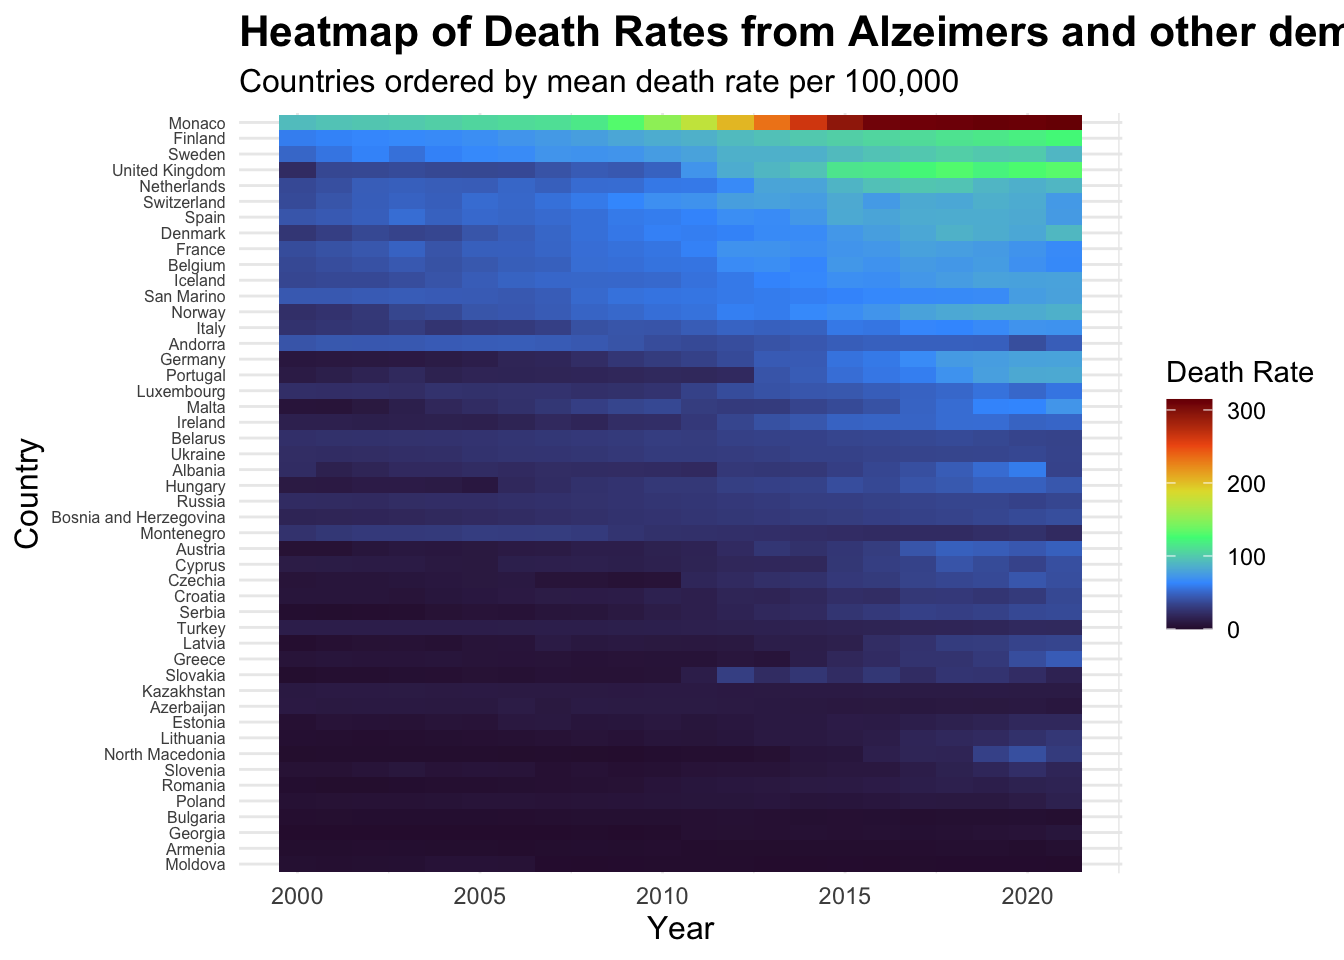
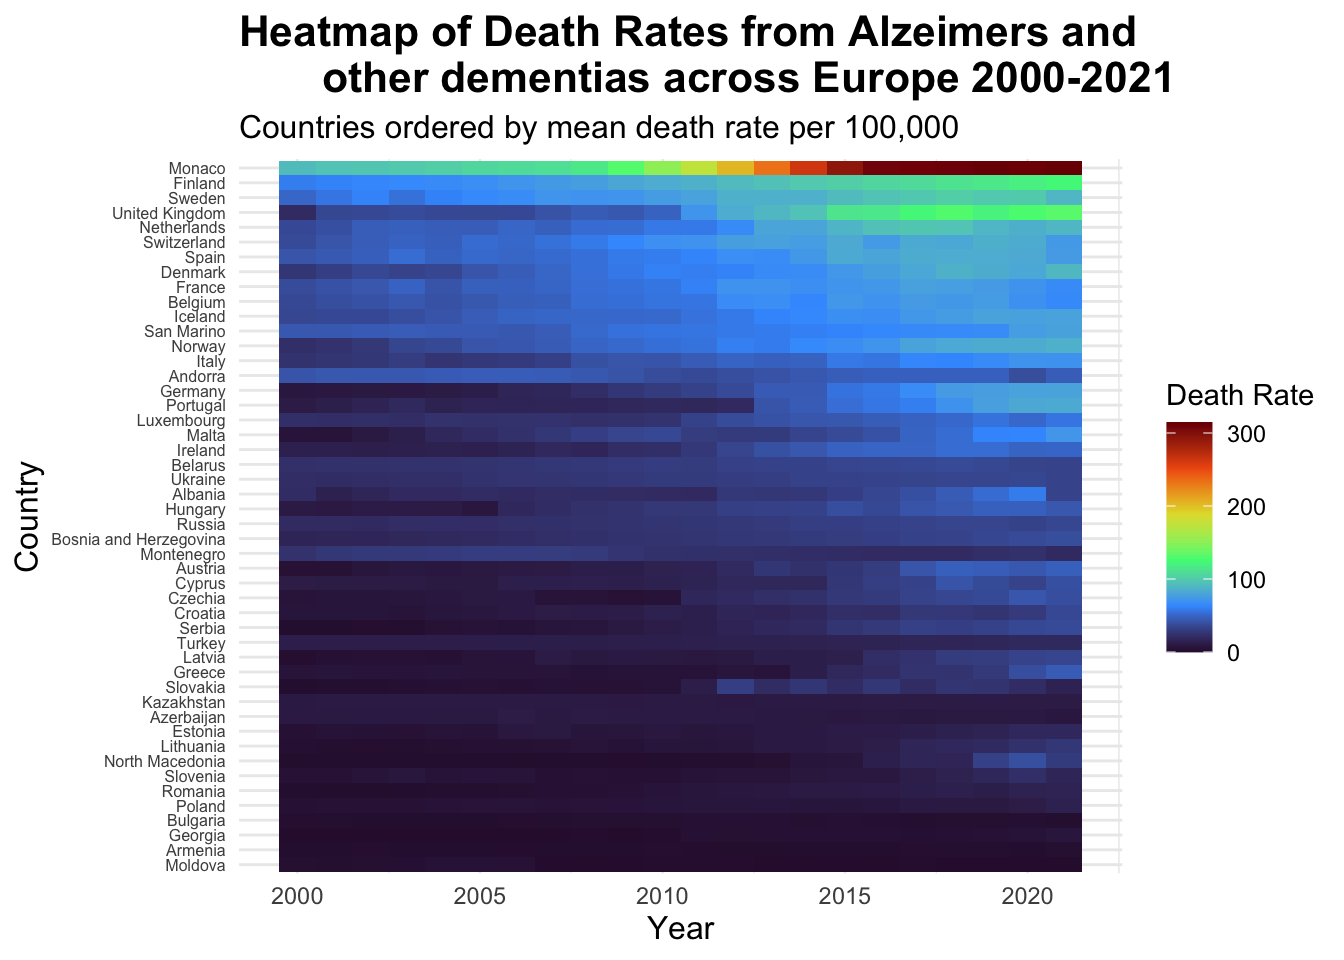
small changes commit

Changed region(s): [[0.0, 0.0, 1.0, 0.9062], [0.5625, 0.5625, 0.5938, 0.5938]]

diff --git a/FinalProject.html b/FinalProject.html
@@ -108,7 +108,7 @@ pre > code.sourceCode > span > a:first-child::before { text-decoration: underlin
 </section>
 <section id="background-and-data-origins" class="level2">
 <h2 class="anchored" data-anchor-id="background-and-data-origins">Background and Data Origins</h2>
-<p>As a postgraduate Masters student studying cognitive neuroscience and human neuroimaging I am interested in the impact of neurodegenerative diseases on health and populations. This inspired me to create a visualisation looking at how deaths from alzheimer’s disease and other forms of dementia are increasing or decreasing and how this specifically is impacting health and therefore death rates. The raw data set was obtained from Our World Data website which provided the annual number of deaths from Alzheimer’s disease and other forms of dementia per 100,000 people from 2000 to 2021 globally, combining men and women.</p>
+<p>As a postgraduate Masters student studying cognitive neuroscience and human neuroimaging I am interested in the impact of neurodegenerative diseases on health and populations. This inspired me to create a visualisation looking at how deaths from Alzheimer’s disease and other forms of dementia are increasing or decreasing and how this specifically is impacting health and therefore death rates. The raw data set was obtained from Our World Data website which provided the annual number of deaths from Alzheimer’s disease and other forms of dementia per 100,000 people from 2000 to 2021 globally, combining men and women.</p>
 <p>A link to the data set can be accessed <a href="https://ourworldindata.org/grapher/death-rate-from-alzheimers-other-dementias-ghe?tab=table">Here</a></p>
 <p>My visualisation will focus on answering whether there has been an increase in deaths from Alzheimer’s disease and other dementia’s across Europe from the year 2000-2021 and whether one specific country has a higher death rate than others due these neurodegenerative diseases.</p>
 <blockquote class="blockquote">
@@ -224,7 +224,7 @@ pre > code.sourceCode > span > a:first-child::before { text-decoration: underlin
 <span id="cb10-9"><a href="#cb10-9" aria-hidden="true" tabindex="-1"></a></span>
 <span id="cb10-10"><a href="#cb10-10" aria-hidden="true" tabindex="-1"></a><span class="co">#7 Renaming columns </span></span>
 <span id="cb10-11"><a href="#cb10-11" aria-hidden="true" tabindex="-1"></a></span>
-<span id="cb10-12"><a href="#cb10-12" aria-hidden="true" tabindex="-1"></a>europe_alzheimers_deaths<span class="ot">&lt;-</span> europe_alzheimers_df <span class="sc">%&gt;%</span> <span class="co">#creating final data set</span></span>
+<span id="cb10-12"><a href="#cb10-12" aria-hidden="true" tabindex="-1"></a>europe_alzheimers_deaths<span class="ot">&lt;-</span> europe_alzheimers_df <span class="sc">%&gt;%</span> <span class="co">#creating final data set vector</span></span>
 <span id="cb10-13"><a href="#cb10-13" aria-hidden="true" tabindex="-1"></a>  </span>
 <span id="cb10-14"><a href="#cb10-14" aria-hidden="true" tabindex="-1"></a>  <span class="fu">rename</span>(<span class="at">Country =</span> Entity, <span class="co">#renaming the original column name as 'Country'</span></span>
 <span id="cb10-15"><a href="#cb10-15" aria-hidden="true" tabindex="-1"></a>         </span>
@@ -263,7 +263,7 @@ pre > code.sourceCode > span > a:first-child::before { text-decoration: underlin
 </div>
 </div>
 </div>
-<p>This was just a basic line graph for me to get an idea on how i can work with the data i have and what sort of graph i could create. This one is very simple and i don’t like the proportions and it does not look that great in terms of positioning, colour and just general visability so i am going to try and advance this visualisation into something clearer and more precise.</p>
+<p>This was just a basic line graph for me to get an idea on how I can work with the data I have and what sort of graph I could create. This one is very simple and I don’t like the proportions and it does not look that great in terms of positioning, colour and just general visability so I am going to try and advance this visualisation into something clearer and more precise.</p>
 <div class="cell">
 <div class="sourceCode cell-code" id="cb12"><pre class="sourceCode r code-with-copy"><code class="sourceCode r"><span id="cb12-1"><a href="#cb12-1" aria-hidden="true" tabindex="-1"></a>alzheimer_plot<span class="ot">&lt;-</span> <span class="fu">ggplot</span>( <span class="co">#assigning the plot a name</span></span>
 <span id="cb12-2"><a href="#cb12-2" aria-hidden="true" tabindex="-1"></a>  </span>
@@ -299,8 +299,8 @@ pre > code.sourceCode > span > a:first-child::before { text-decoration: underlin
 <span id="cb12-32"><a href="#cb12-32" aria-hidden="true" tabindex="-1"></a>  </span>
 <span id="cb12-33"><a href="#cb12-33" aria-hidden="true" tabindex="-1"></a>  <span class="fu">theme</span>(</span>
 <span id="cb12-34"><a href="#cb12-34" aria-hidden="true" tabindex="-1"></a>    <span class="at">plot.title =</span> <span class="fu">element_text</span>(<span class="at">size =</span> <span class="dv">16</span>, <span class="at">face =</span> <span class="st">"bold"</span>), <span class="co">#changing size of title and making it bold</span></span>
-<span id="cb12-35"><a href="#cb12-35" aria-hidden="true" tabindex="-1"></a>    <span class="at">plot.subtitle =</span> <span class="fu">element_text</span>(<span class="at">size =</span> <span class="dv">12</span>), <span class="co">#assinging text size to the subtitle </span></span>
-<span id="cb12-36"><a href="#cb12-36" aria-hidden="true" tabindex="-1"></a>    <span class="at">axis.title =</span> <span class="fu">element_text</span>(<span class="at">size =</span> <span class="dv">12</span>), <span class="co">#assigning text size for the axis label</span></span>
+<span id="cb12-35"><a href="#cb12-35" aria-hidden="true" tabindex="-1"></a>    <span class="at">plot.subtitle =</span> <span class="fu">element_text</span>(<span class="at">size =</span> <span class="dv">12</span>), <span class="co">#assigning text size to the subtitle </span></span>
+<span id="cb12-36"><a href="#cb12-36" aria-hidden="true" tabindex="-1"></a>    <span class="at">axis.title =</span> <span class="fu">element_text</span>(<span class="at">size =</span> <span class="dv">12</span>), <span class="co">#assigning text size for the axis labels</span></span>
 <span id="cb12-37"><a href="#cb12-37" aria-hidden="true" tabindex="-1"></a>    <span class="at">legend.position =</span> <span class="st">"right"</span>, <span class="co">#making the position of the legend on the right of the graph</span></span>
 <span id="cb12-38"><a href="#cb12-38" aria-hidden="true" tabindex="-1"></a>    <span class="at">panel.grid.minor =</span> <span class="fu">element_blank</span>() <span class="co">#hiding minor grid lines</span></span>
 <span id="cb12-39"><a href="#cb12-39" aria-hidden="true" tabindex="-1"></a>  ) </span>
@@ -315,7 +315,7 @@ pre > code.sourceCode > span > a:first-child::before { text-decoration: underlin
 </div>
 </div>
 </div>
-<p>This graph is better in terms of visual appearance and labels and includes much more detail, but the legend is too big and the graph is squished, the colours are too similar and theres just too much going on in the graph to read the data clearly, so its still unclear.</p>
+<p>This graph is better in terms of visual appearance, labels and detail, but the legend is too big and the graph is squashed. The colours of the lines and points are too similar and there’s just too much going on in the graph to read the data clearly, so its still unclear.</p>
 <div class="cell">
 <div class="sourceCode cell-code" id="cb13"><pre class="sourceCode r code-with-copy"><code class="sourceCode r"><span id="cb13-1"><a href="#cb13-1" aria-hidden="true" tabindex="-1"></a>alzheimer_plot<span class="ot">&lt;-</span> <span class="fu">ggplot</span>(<span class="at">data =</span> europe_alzheimers_deaths, <span class="co">#calling the data</span></span>
 <span id="cb13-2"><a href="#cb13-2" aria-hidden="true" tabindex="-1"></a>  </span>
@@ -324,7 +324,7 @@ pre > code.sourceCode > span > a:first-child::before { text-decoration: underlin
 <span id="cb13-5"><a href="#cb13-5" aria-hidden="true" tabindex="-1"></a>    <span class="at">y =</span> DeathRate,</span>
 <span id="cb13-6"><a href="#cb13-6" aria-hidden="true" tabindex="-1"></a>    <span class="at">group =</span> Country,</span>
 <span id="cb13-7"><a href="#cb13-7" aria-hidden="true" tabindex="-1"></a>    <span class="at">colour =</span> Country,</span>
-<span id="cb13-8"><a href="#cb13-8" aria-hidden="true" tabindex="-1"></a>    <span class="co">#adding x and y axis, grouping by country and making each country a different colour, I couldn't find a colour palette that covers enough colours to assign a different clear colour to each coutry better than the default  </span></span>
+<span id="cb13-8"><a href="#cb13-8" aria-hidden="true" tabindex="-1"></a>    <span class="co">#adding x and y axis, grouping by country and making each country a different colour, I couldn't find a colour palette that covers enough colours to assign a different clear colour to each country better than the default - this is an issue with this type of graph i started to realise </span></span>
 <span id="cb13-9"><a href="#cb13-9" aria-hidden="true" tabindex="-1"></a>)) <span class="sc">+</span></span>
 <span id="cb13-10"><a href="#cb13-10" aria-hidden="true" tabindex="-1"></a>  </span>
 <span id="cb13-11"><a href="#cb13-11" aria-hidden="true" tabindex="-1"></a>  <span class="fu">geom_line</span>(</span>
@@ -371,14 +371,14 @@ pre > code.sourceCode > span > a:first-child::before { text-decoration: underlin
 </div>
 </div>
 </div>
-<p>After experimenting with the line graphs, i decided this data is too dense and although this final visualisation is better for readability i think it is still quite unclear and the data is all squashed together at the bottom, with similar colours, making them difficult to read and distinguish between. Therefore I decided to create a heat map which is better for dense data sets to see if this would be a better visualisation.</p>
+<p>After experimenting with the line graphs, I decided this data is too dense and although this final visualisation is better for readability i think it is still quite unclear and the data is all squashed together at the bottom, with similar colours, making them difficult to read and distinguish between. Therefore I decided to create a heat map which is better for dense data sets to see if this would be a better visualisation.</p>
 </section>
 <section id="data-visualisation-2" class="level3">
 <h3 class="anchored" data-anchor-id="data-visualisation-2">Data visualisation 2</h3>
 <div class="cell">
 <div class="sourceCode cell-code" id="cb14"><pre class="sourceCode r code-with-copy"><code class="sourceCode r"><span id="cb14-1"><a href="#cb14-1" aria-hidden="true" tabindex="-1"></a>alzheimers_heatmap<span class="ot">&lt;-</span> europe_alzheimers_deaths <span class="sc">%&gt;%</span> <span class="co">#naming the graph</span></span>
 <span id="cb14-2"><a href="#cb14-2" aria-hidden="true" tabindex="-1"></a>  </span>
-<span id="cb14-3"><a href="#cb14-3" aria-hidden="true" tabindex="-1"></a>  <span class="fu">mutate</span>(<span class="at">Country =</span> <span class="fu">fct_reorder</span>(Country, DeathRate, <span class="at">.fun =</span> <span class="st">'mean'</span>)) <span class="sc">%&gt;%</span> <span class="co">#reordering data by each countries mean death rate to make the visualisation clearer with the changes in colour</span></span>
+<span id="cb14-3"><a href="#cb14-3" aria-hidden="true" tabindex="-1"></a>  <span class="fu">mutate</span>(<span class="at">Country =</span> <span class="fu">fct_reorder</span>(Country, DeathRate, <span class="at">.fun =</span> <span class="st">'mean'</span>)) <span class="sc">%&gt;%</span> <span class="co">#reordering data by each countries' mean death rate to make the visualisation clearer with the changes in colour</span></span>
 <span id="cb14-4"><a href="#cb14-4" aria-hidden="true" tabindex="-1"></a>  </span>
 <span id="cb14-5"><a href="#cb14-5" aria-hidden="true" tabindex="-1"></a>  <span class="fu">ggplot</span>(<span class="at">mapping =</span> <span class="fu">aes</span>(<span class="at">x =</span> Year, <span class="at">y =</span> Country, <span class="at">fill =</span> DeathRate)) <span class="sc">+</span> <span class="co">#adding x and y axis and what the data is being grouped by</span></span>
 <span id="cb14-6"><a href="#cb14-6" aria-hidden="true" tabindex="-1"></a>  </span>
@@ -386,20 +386,21 @@ pre > code.sourceCode > span > a:first-child::before { text-decoration: underlin
 <span id="cb14-8"><a href="#cb14-8" aria-hidden="true" tabindex="-1"></a>  </span>
 <span id="cb14-9"><a href="#cb14-9" aria-hidden="true" tabindex="-1"></a>  <span class="fu">scale_fill_viridis_c</span>(<span class="at">option =</span> <span class="st">"turbo"</span>) <span class="sc">+</span> <span class="co">#adding colour palette </span></span>
 <span id="cb14-10"><a href="#cb14-10" aria-hidden="true" tabindex="-1"></a>  </span>
-<span id="cb14-11"><a href="#cb14-11" aria-hidden="true" tabindex="-1"></a>  <span class="fu">labs</span>(<span class="at">title =</span> <span class="st">"Heatmap of Death Rates from Alzeimers and other dementias across Europe 2000-2021"</span>,</span>
-<span id="cb14-12"><a href="#cb14-12" aria-hidden="true" tabindex="-1"></a>       <span class="at">subtitle =</span> <span class="st">"Countries ordered by mean death rate per 100,000"</span>,</span>
-<span id="cb14-13"><a href="#cb14-13" aria-hidden="true" tabindex="-1"></a>       <span class="at">x =</span> <span class="st">"Year"</span>, <span class="at">y =</span> <span class="st">"Country"</span>, <span class="at">fill =</span> <span class="st">"Death Rate"</span>) <span class="sc">+</span> <span class="co">#labelling title and axis and legend</span></span>
-<span id="cb14-14"><a href="#cb14-14" aria-hidden="true" tabindex="-1"></a>  </span>
-<span id="cb14-15"><a href="#cb14-15" aria-hidden="true" tabindex="-1"></a>  <span class="fu">theme_minimal</span>() <span class="sc">+</span></span>
-<span id="cb14-16"><a href="#cb14-16" aria-hidden="true" tabindex="-1"></a>  </span>
-<span id="cb14-17"><a href="#cb14-17" aria-hidden="true" tabindex="-1"></a>  <span class="fu">theme</span>(</span>
-<span id="cb14-18"><a href="#cb14-18" aria-hidden="true" tabindex="-1"></a>    <span class="at">plot.title =</span> <span class="fu">element_text</span>(<span class="at">size=</span> <span class="dv">16</span>, <span class="at">face =</span> <span class="st">"bold"</span>),</span>
-<span id="cb14-19"><a href="#cb14-19" aria-hidden="true" tabindex="-1"></a>    <span class="at">plot.subtitle =</span> <span class="fu">element_text</span>(<span class="at">size =</span> <span class="dv">12</span>),</span>
-<span id="cb14-20"><a href="#cb14-20" aria-hidden="true" tabindex="-1"></a>    <span class="at">axis.title =</span> <span class="fu">element_text</span>(<span class="at">size =</span> <span class="dv">12</span>),</span>
-<span id="cb14-21"><a href="#cb14-21" aria-hidden="true" tabindex="-1"></a>    <span class="at">axis.text.y =</span> <span class="fu">element_text</span>(<span class="at">size =</span> <span class="dv">6</span>)) </span>
-<span id="cb14-22"><a href="#cb14-22" aria-hidden="true" tabindex="-1"></a><span class="co">#adjusting size and look of text and labels on the graph </span></span>
-<span id="cb14-23"><a href="#cb14-23" aria-hidden="true" tabindex="-1"></a></span>
-<span id="cb14-24"><a href="#cb14-24" aria-hidden="true" tabindex="-1"></a>alzheimers_heatmap <span class="co">#viewing the heatmap</span></span></code><button title="Copy to Clipboard" class="code-copy-button"><i class="bi"></i></button></pre></div>
+<span id="cb14-11"><a href="#cb14-11" aria-hidden="true" tabindex="-1"></a>  <span class="fu">labs</span>(<span class="at">title =</span> <span class="st">"Heatmap of Death Rates from Alzeimers and </span></span>
+<span id="cb14-12"><a href="#cb14-12" aria-hidden="true" tabindex="-1"></a><span class="st">       other dementias across Europe 2000-2021"</span>,</span>
+<span id="cb14-13"><a href="#cb14-13" aria-hidden="true" tabindex="-1"></a>       <span class="at">subtitle =</span> <span class="st">"Countries ordered by mean death rate per 100,000"</span>,</span>
+<span id="cb14-14"><a href="#cb14-14" aria-hidden="true" tabindex="-1"></a>       <span class="at">x =</span> <span class="st">"Year"</span>, <span class="at">y =</span> <span class="st">"Country"</span>, <span class="at">fill =</span> <span class="st">"Death Rate"</span>) <span class="sc">+</span> <span class="co">#labelling title and axis and legend</span></span>
+<span id="cb14-15"><a href="#cb14-15" aria-hidden="true" tabindex="-1"></a>  </span>
+<span id="cb14-16"><a href="#cb14-16" aria-hidden="true" tabindex="-1"></a>  <span class="fu">theme_minimal</span>() <span class="sc">+</span></span>
+<span id="cb14-17"><a href="#cb14-17" aria-hidden="true" tabindex="-1"></a>  </span>
+<span id="cb14-18"><a href="#cb14-18" aria-hidden="true" tabindex="-1"></a>  <span class="fu">theme</span>(</span>
+<span id="cb14-19"><a href="#cb14-19" aria-hidden="true" tabindex="-1"></a>    <span class="at">plot.title =</span> <span class="fu">element_text</span>(<span class="at">size=</span> <span class="dv">16</span>, <span class="at">face =</span> <span class="st">"bold"</span>),</span>
+<span id="cb14-20"><a href="#cb14-20" aria-hidden="true" tabindex="-1"></a>    <span class="at">plot.subtitle =</span> <span class="fu">element_text</span>(<span class="at">size =</span> <span class="dv">12</span>),</span>
+<span id="cb14-21"><a href="#cb14-21" aria-hidden="true" tabindex="-1"></a>    <span class="at">axis.title =</span> <span class="fu">element_text</span>(<span class="at">size =</span> <span class="dv">12</span>),</span>
+<span id="cb14-22"><a href="#cb14-22" aria-hidden="true" tabindex="-1"></a>    <span class="at">axis.text.y =</span> <span class="fu">element_text</span>(<span class="at">size =</span> <span class="dv">6</span>)) </span>
+<span id="cb14-23"><a href="#cb14-23" aria-hidden="true" tabindex="-1"></a><span class="co">#adjusting size and look of text and labels on the graph </span></span>
+<span id="cb14-24"><a href="#cb14-24" aria-hidden="true" tabindex="-1"></a></span>
+<span id="cb14-25"><a href="#cb14-25" aria-hidden="true" tabindex="-1"></a>alzheimers_heatmap <span class="co">#viewing the heatmap</span></span></code><button title="Copy to Clipboard" class="code-copy-button"><i class="bi"></i></button></pre></div>
 <div class="cell-output-display">
 <div>
 <figure class="figure">
